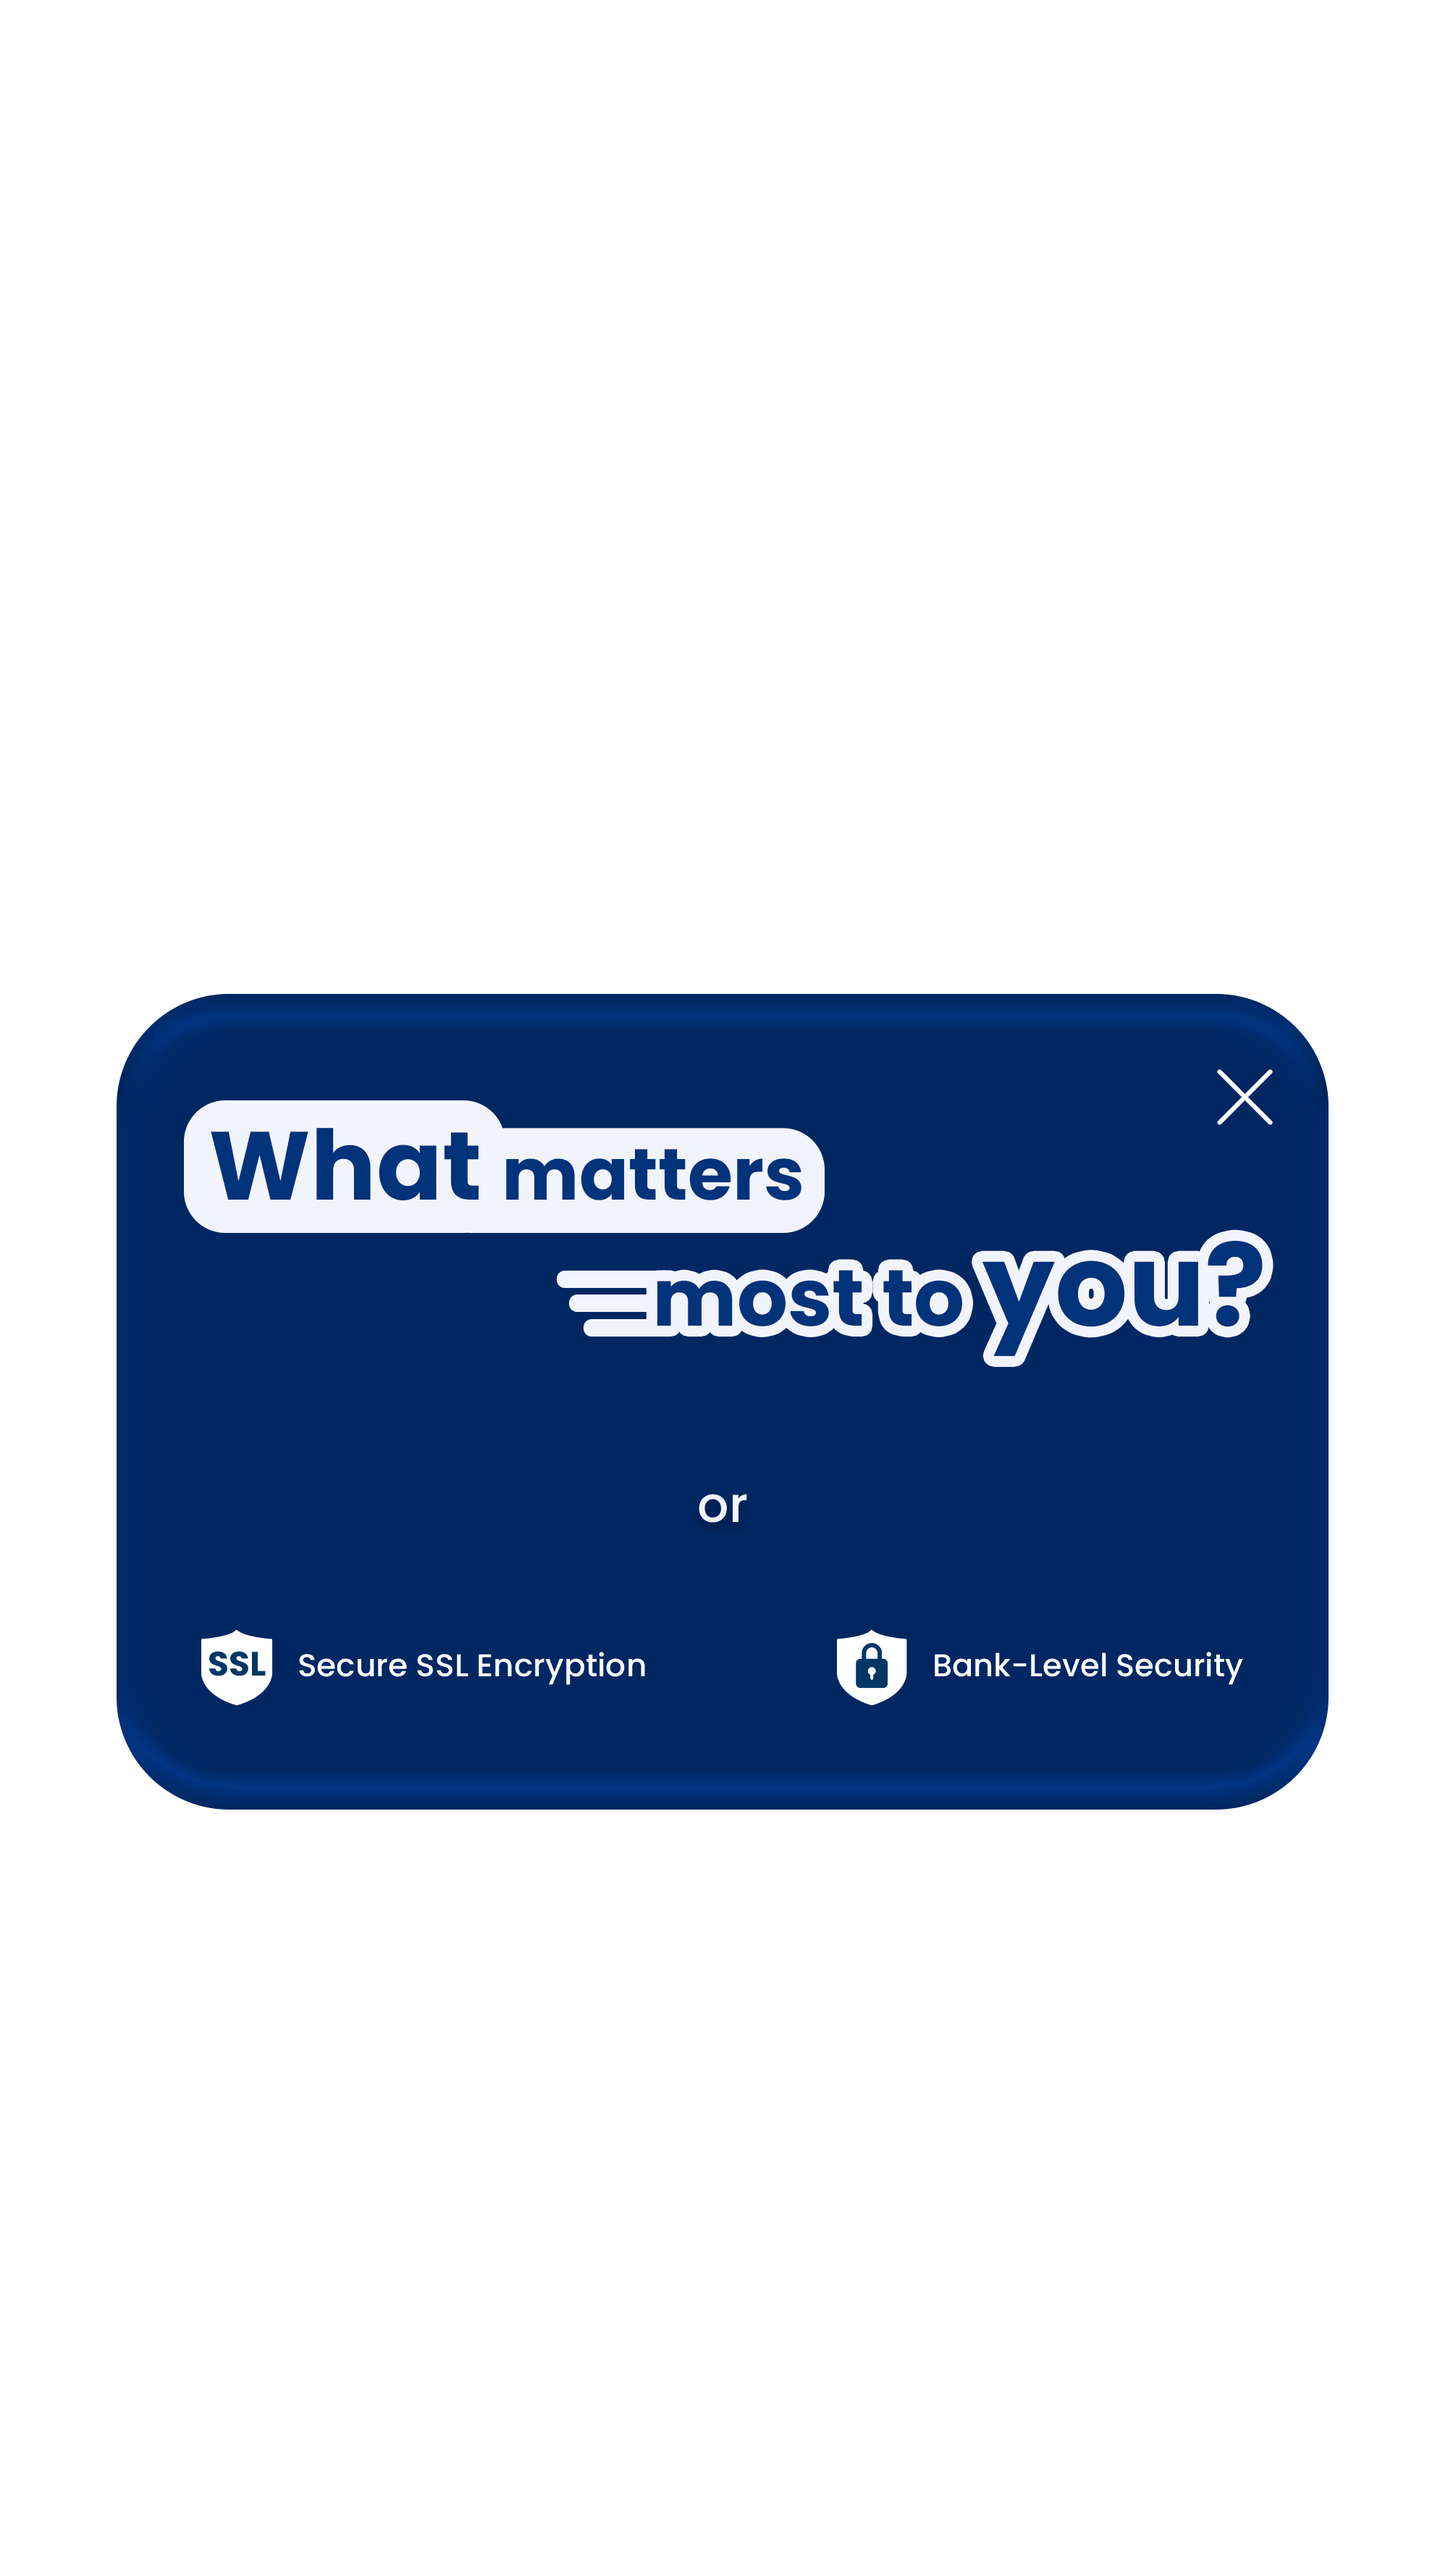
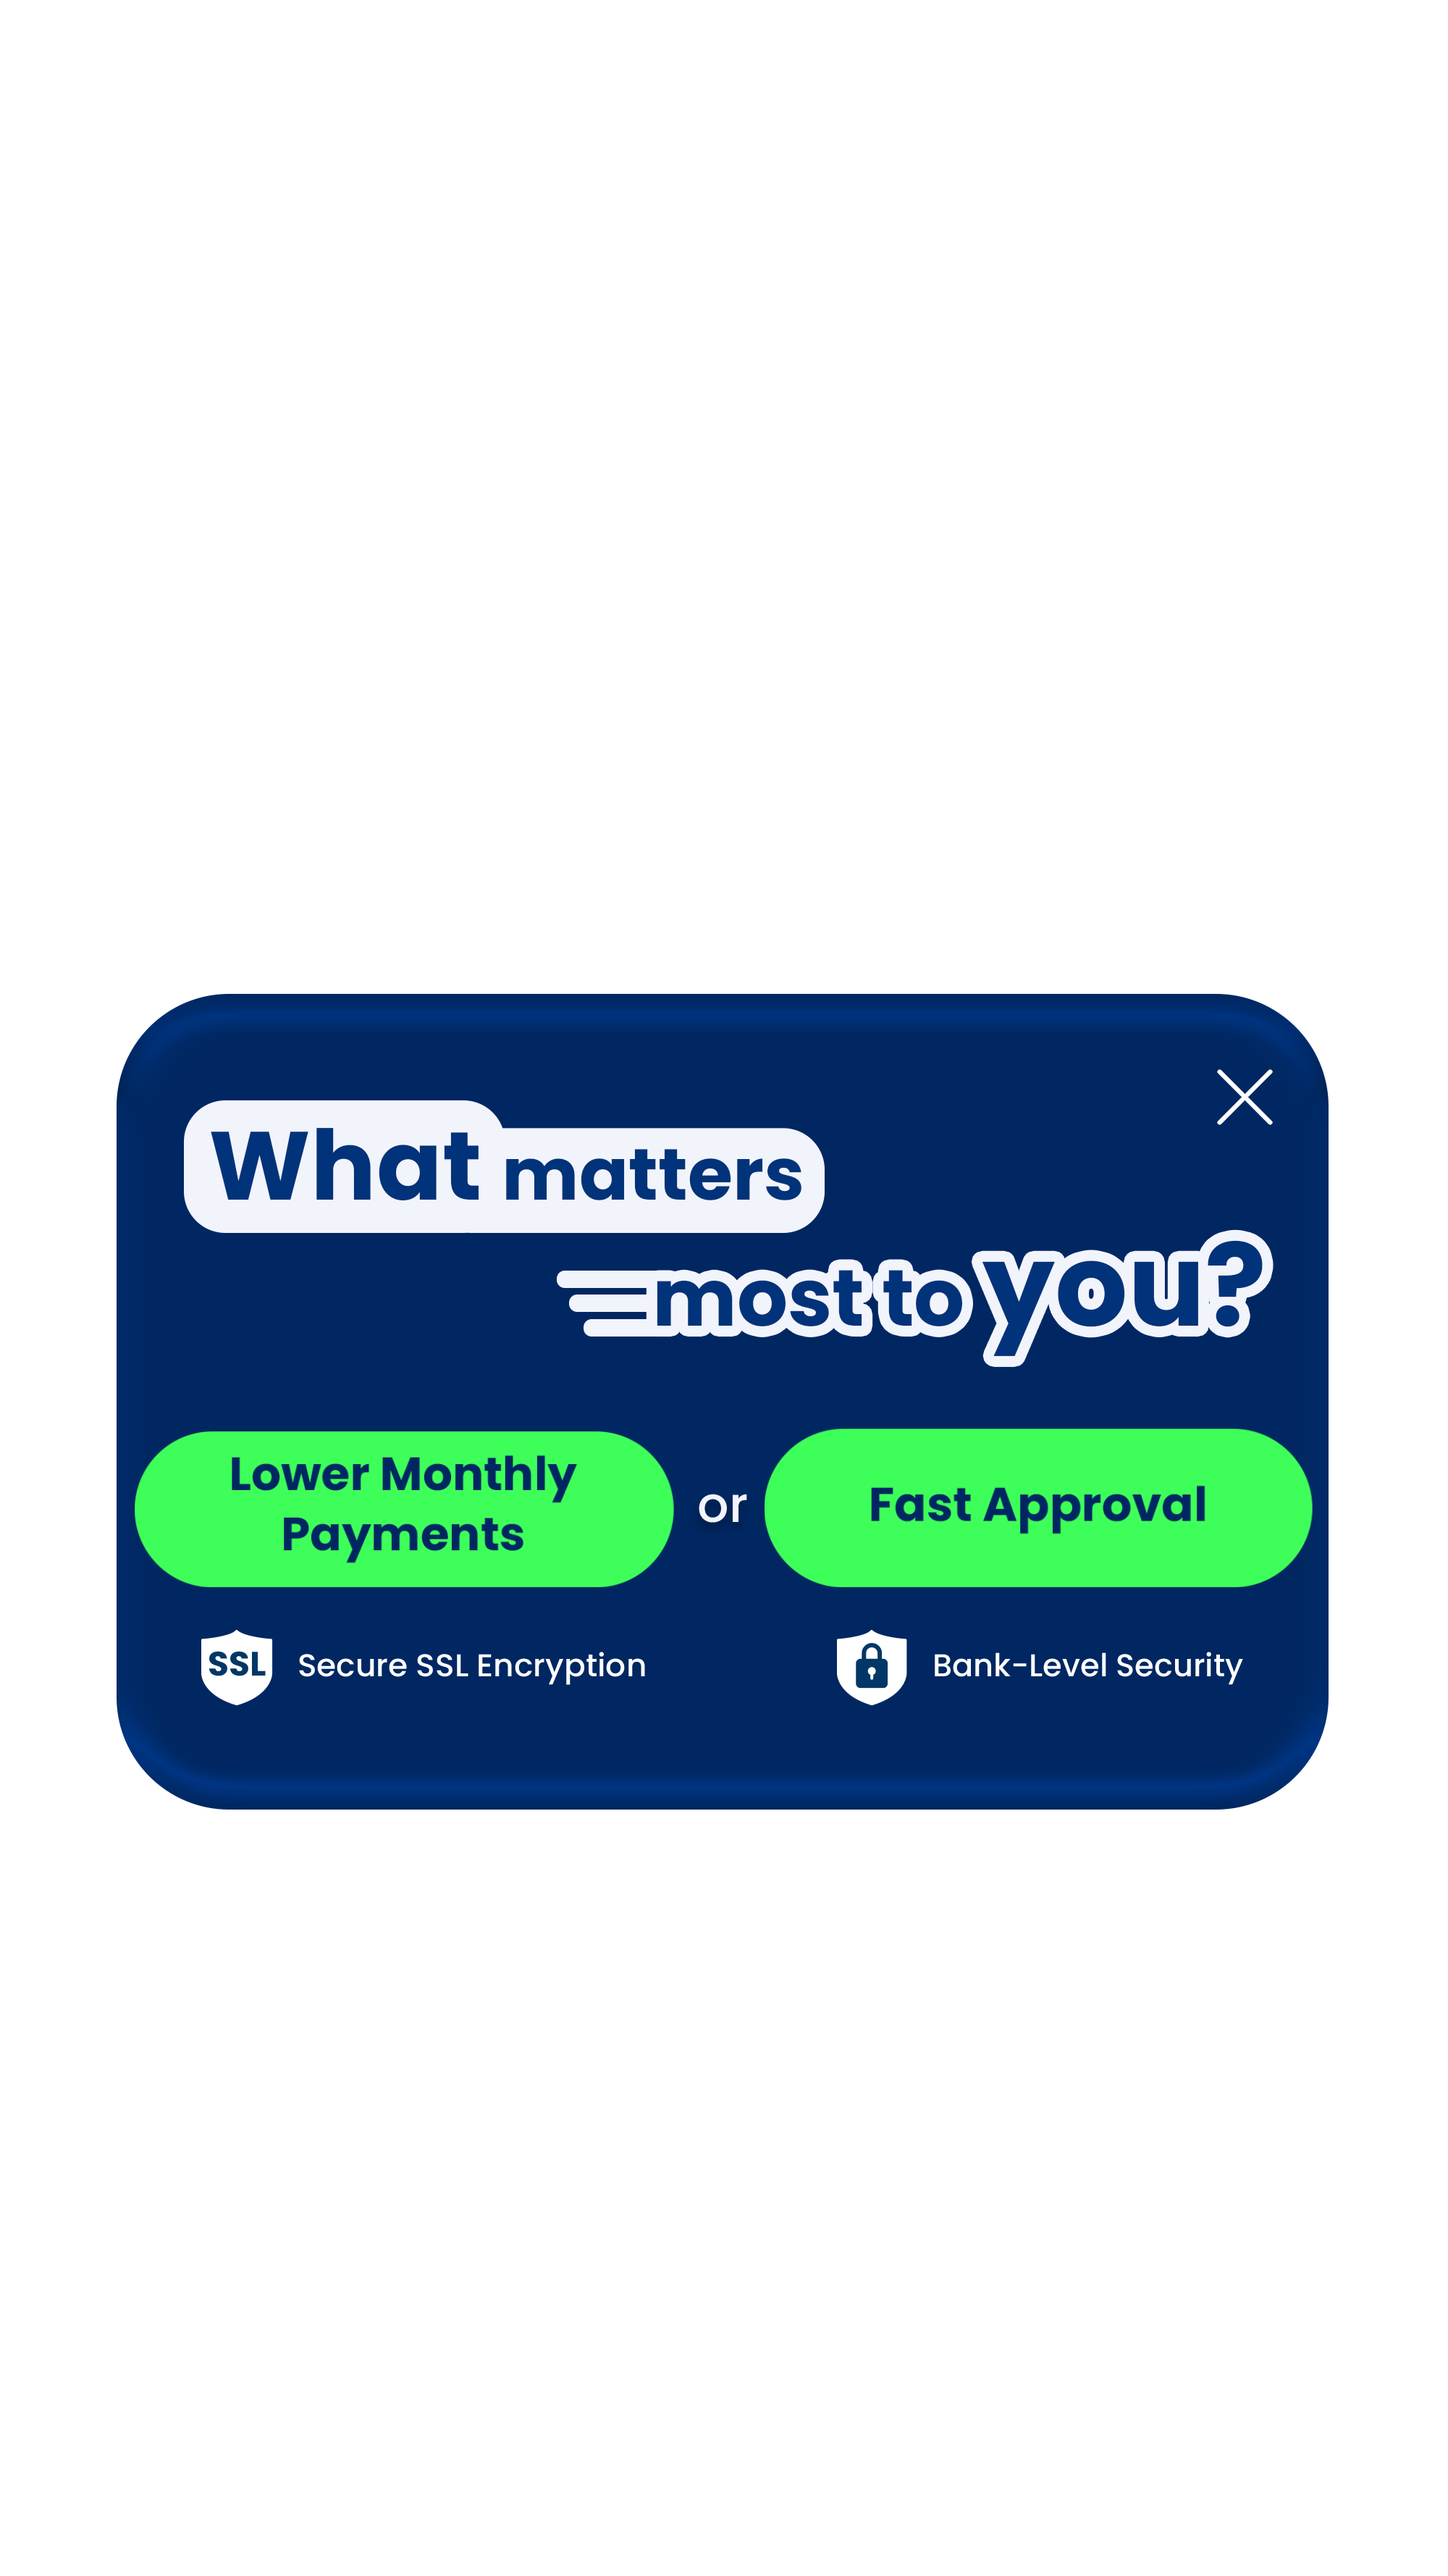
update popup

Changed region(s): [[0.527, 0.5307, 0.93, 0.6243], [0.093, 0.5307, 0.465, 0.6243]]

diff --git a/page2.html b/page2.html
@@ -53,21 +53,137 @@
     .cta-green { background:linear-gradient(90deg,#4ade80 0%,#22c55e 50%,#16a34a 100%); box-shadow:0 5px 0 #15803d,0 8px 18px rgba(21,128,61,0.30); transition:all 0.12s ease; }
     .cta-green:active { box-shadow:0 2px 0 #15803d; transform:translateY(3px); }
 
-    #popupOverlay { position:fixed; inset:0; z-index:999; background:rgba(0,0,0,0.55); display:flex; align-items:center; justify-content:center; padding:16px; }
+    #popupOverlay { position:fixed; inset:0; z-index:999; background:rgba(0,0,0,0.55); display:flex; align-items:center; justify-content:center; padding:12px; }
     #popupOverlay.hidden { display:none; }
-    #popupBox { position:relative; width:100%; max-width:400px; }
-    #popupBox img { width:100%; height:auto; display:block; border-radius:16px; cursor:pointer; }
-
+    #popupBox {
+      position:relative;
+      width:100%;
+      max-width:min(98vw,480px);
+      background:#0d2461;
+      border-radius:20px;
+      padding:28px 24px 28px;
+      box-shadow:0 20px 60px rgba(0,0,0,0.45);
+    }
+    #popupClose {
+      position:absolute;
+      top:14px; right:16px;
+      background:rgba(255,255,255,0.15);
+      border:none; cursor:pointer;
+      border-radius:50%;
+      width:32px; height:32px;
+      display:flex; align-items:center; justify-content:center;
+      color:white; font-size:1.3rem; line-height:1;
+      transition:background 0.15s;
+    }
+    #popupClose:hover { background:rgba(255,255,255,0.28); }
+    .popup-heading {
+      text-align:center;
+      color:white;
+      font-size:clamp(1.4rem,5.5vw,1.9rem);
+      font-weight:900;
+      line-height:1.2;
+      margin-bottom:22px;
+    }
+    .popup-heading .pill {
+      display:inline-block;
+      background:white;
+      color:#0d2461;
+      border-radius:50px;
+      padding:2px 18px;
+    }
+    .popup-btn-row {
+      display:flex;
+      align-items:center;
+      justify-content:center;
+      gap:14px;
+      margin-bottom:22px;
+      flex-wrap:wrap;
+    }
+    .popup-btn {
+      background:#39ff6e;
+      color:#0d2461;
+      font-weight:800;
+      font-size:clamp(0.95rem,3.5vw,1.15rem);
+      border:none;
+      border-radius:50px;
+      padding:16px 24px;
+      cursor:pointer;
+      flex:1;
+      min-width:120px;
+      min-height:80px;
+      text-align:center;
+      text-decoration:none;
+      display:flex;
+      align-items:center;
+      justify-content:center;
+      transition:filter 0.15s, transform 0.12s;
+      box-shadow:0 4px 16px rgba(57,255,110,0.35);
+      line-height:1.2;
+    }
+    .popup-btn:hover { filter:brightness(1.08); transform:translateY(-2px); }
+    .popup-btn:active { transform:translateY(1px); }
+    .popup-or { color:white; font-weight:700; font-size:1rem; flex-shrink:0; }
+    .popup-badges {
+      display:flex;
+      justify-content:center;
+      gap:24px;
+      flex-wrap:wrap;
+    }
+    .popup-badge {
+      display:flex;
+      align-items:center;
+      gap:8px;
+      color:rgba(255,255,255,0.80);
+      font-size:clamp(0.72rem,2.5vw,0.82rem);
+      font-weight:600;
+    }
+    .popup-badge svg { flex-shrink:0; }
     .rv { opacity:0; transform:translateY(22px); transition:opacity 0.52s ease,transform 0.52s ease; }
     .rv.visible { opacity:1; transform:translateY(0); }
     .rv-d1 { transition-delay:0.12s; }
     .rv-d2 { transition-delay:0.24s; }
     @media (prefers-reduced-motion:reduce) { .rv { opacity:1; transform:none; transition:none; } }
+
+    /* ── iPad responsive (768px+) ── */
+    @media (min-width: 768px) {
+      #pageWrapper { max-width: 720px; }
+
+      /* Header */
+      #pageWrapper header { padding: 16px 32px; }
+      #pageWrapper header img { width:50px; height:52px; }
+      #pageWrapper header span { font-size: 1.55rem !important; }
+
+      /* How It Works */
+      #pageWrapper .how-bg { padding: 48px 40px 32px; }
+      .step-top { padding: 14px 14px; gap: 10px; }
+      .step-top span:first-child { font-size: 1.45rem !important; }
+      .step-top span:last-child { font-size: 0.88rem !important; }
+      .step-bottom { padding: 12px 14px; }
+      .step-bottom p { font-size: 0.82rem !important; line-height: 1.6; }
+      #pageWrapper .how-bg div[style*='grid'] { gap: 18px; }
+
+      /* CTA button */
+      #pageWrapper .cta-green { font-size: 1.2rem !important; padding: 18px 56px; }
+      #pageWrapper .text-center.mt-8 { margin-top: 40px; }
+
+      /* Headings */
+      #pageWrapper h2 { font-size: 2.1rem !important; margin-bottom: 12px; }
+      #pageWrapper .how-bg > p { font-size: 1rem !important; margin-bottom: 36px; }
+
+      /* Disclaimer */
+      #pageWrapper .px-4.pb-8 { padding: 16px 40px 48px; }
+      #pageWrapper .px-4.pb-8 p { font-size: 0.85rem !important; }
+
+      /* Popup */
+      #popupBox { max-width: 560px; padding:36px 36px 32px; }
+      .popup-heading { font-size:2.1rem; }
+      .popup-btn { font-size:1.2rem; padding:18px 32px; }
+    }
   </style>
 </head>
 
 <body class="overflow-x-hidden" style="background:#eef2f7">
-  <div class="w-full max-w-[430px] mx-auto relative bg-white min-h-screen"
+  <div id="pageWrapper" class="w-full max-w-[430px] mx-auto relative bg-white min-h-screen"
     style="box-shadow: 0 0 40px rgba(13,36,97,0.10)">
 
     <header
@@ -171,8 +287,28 @@
 
   <div id="popupOverlay">
     <div id="popupBox">
-      <img src="images/popup1.png" alt="What matters most to you?" id="popupImg"
-        loading="eager" decoding="async" />
+      <button id="popupClose" aria-label="Close">&times;</button>
+
+      <div class="popup-heading">
+        <span class="pill">What</span> matters<br>most to <span style="font-style:italic">you?</span>
+      </div>
+
+      <div class="popup-btn-row">
+        <a href="https://app.quickpayly.com/offer" class="popup-btn">Lower Monthly<br>Payments</a>
+        <span class="popup-or">or</span>
+        <a href="https://app.quickpayly.com/offer" class="popup-btn">Fast Approval</a>
+      </div>
+
+      <div class="popup-badges">
+        <div class="popup-badge">
+          <svg width="22" height="22" viewBox="0 0 22 22" fill="none"><rect width="22" height="22" rx="5" fill="rgba(255,255,255,0.18)"/><text x="11" y="16" text-anchor="middle" font-size="9" font-weight="900" fill="white" font-family="Montserrat,sans-serif">SSL</text></svg>
+          Secure SSL Encryption
+        </div>
+        <div class="popup-badge">
+          <svg width="22" height="22" viewBox="0 0 22 22" fill="none"><rect width="22" height="22" rx="5" fill="rgba(255,255,255,0.18)"/><path d="M11 5l5 2.5V12c0 3-2.5 5-5 5s-5-2-5-5V7.5L11 5z" stroke="white" stroke-width="1.5" fill="none"/><circle cx="11" cy="12" r="1.5" fill="white"/></svg>
+          Bank-Level Security
+        </div>
+      </div>
     </div>
   </div>
 
@@ -181,10 +317,10 @@
       document.getElementById('popupOverlay').classList.add('hidden');
     }
     document.getElementById('popupOverlay').addEventListener('click', closePopup);
-    document.getElementById('popupImg').addEventListener('click', function(e) {
+    document.getElementById('popupBox').addEventListener('click', function(e) {
       e.stopPropagation();
-      closePopup();
     });
+    document.getElementById('popupClose').addEventListener('click', closePopup);
 
     const rvEls = document.querySelectorAll('.rv');
     const rvObs = new IntersectionObserver((entries) => {
